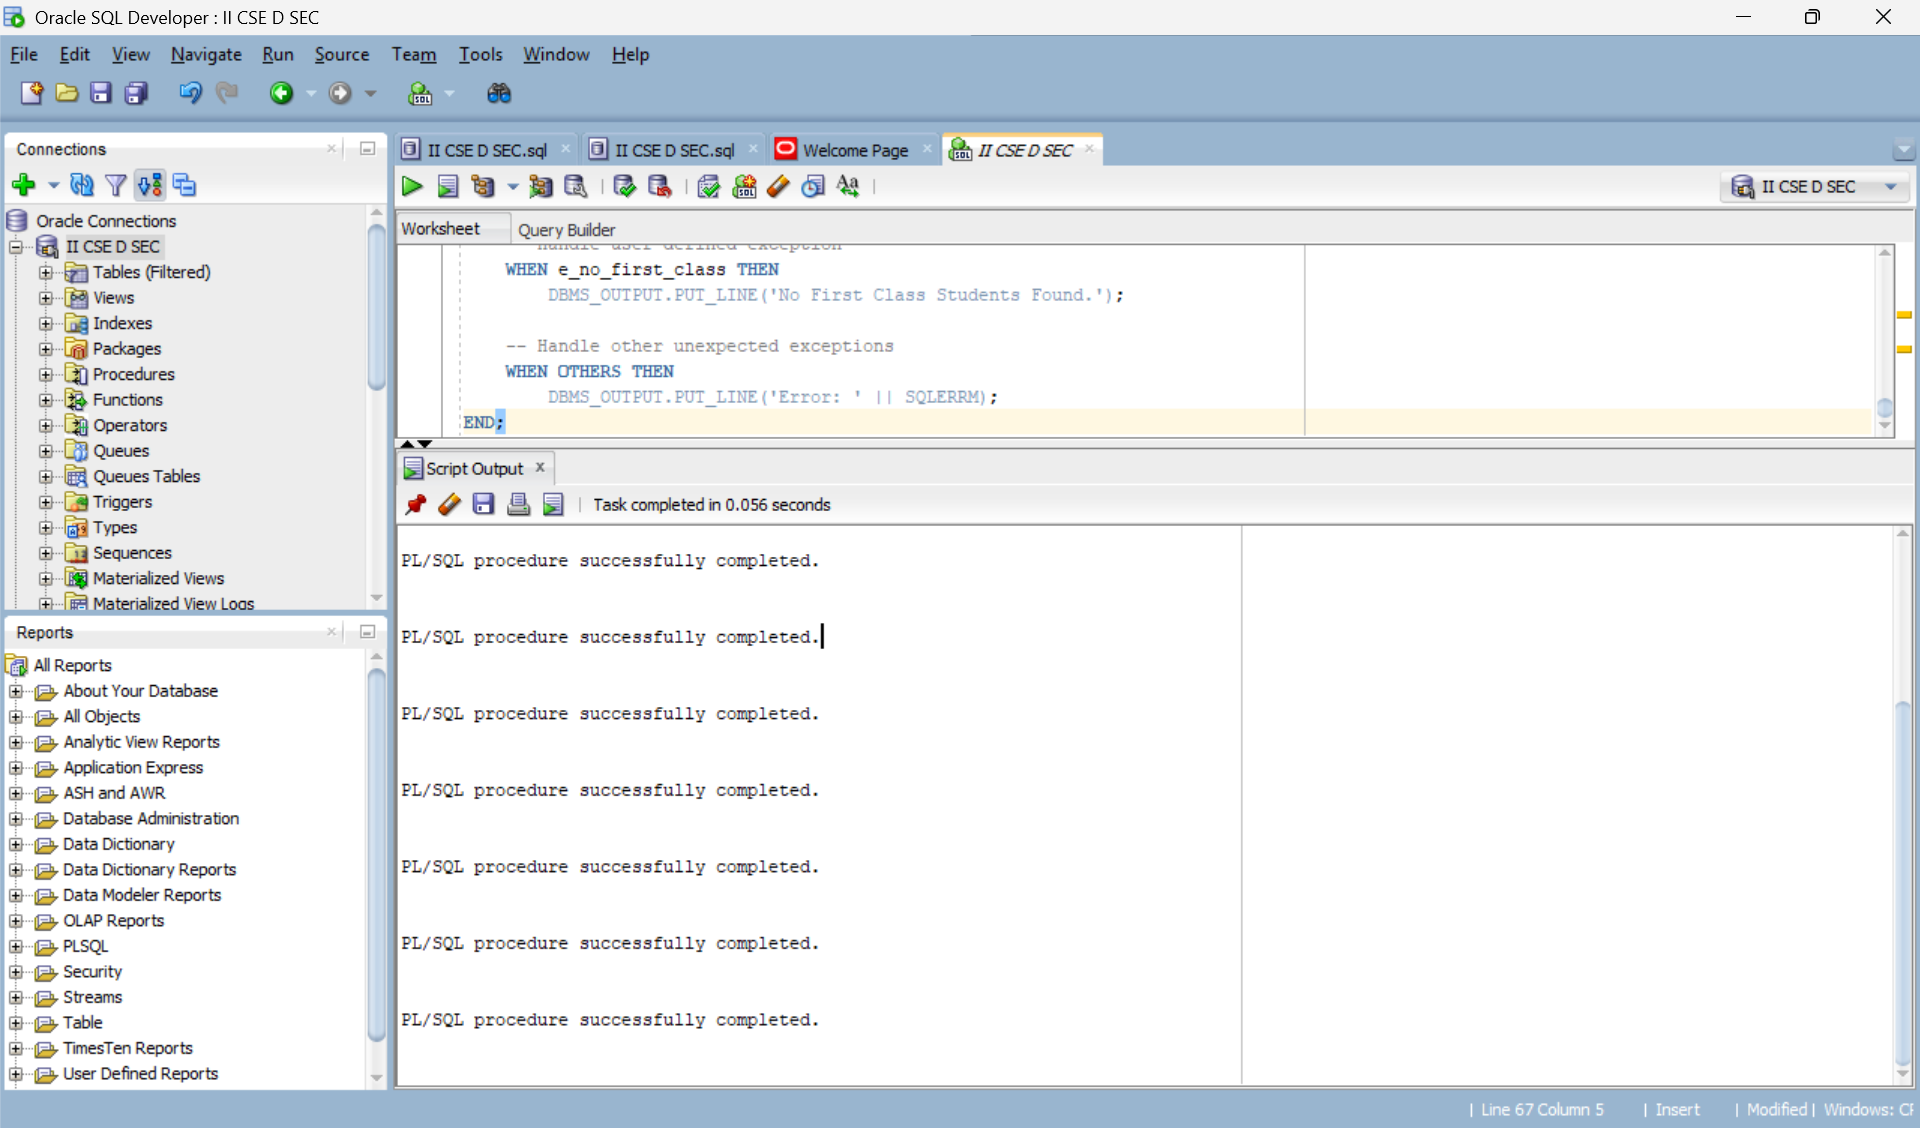
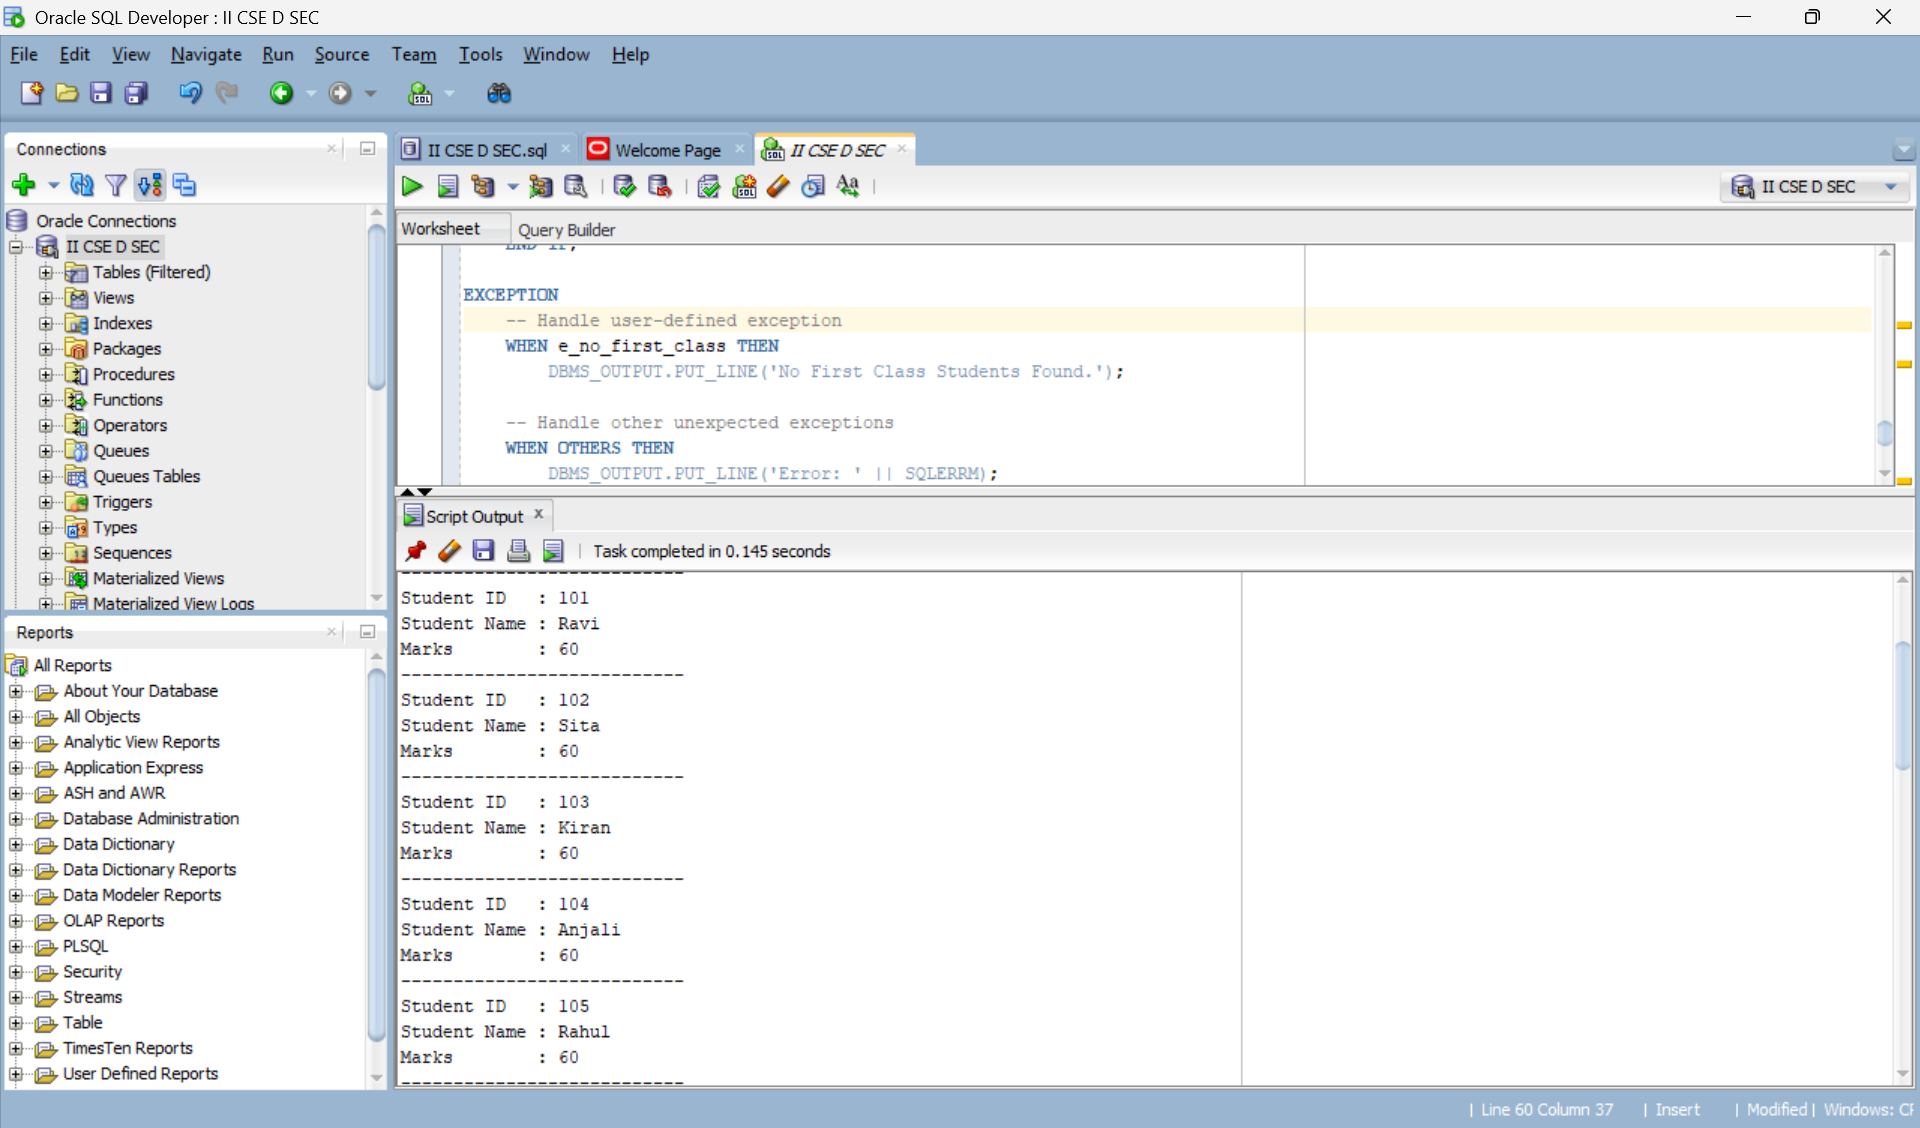
EXP-5a is completed

diff --git a/PRANATHI-5P0/EXP-5a/readme.md b/PRANATHI-5P0/EXP-5a/readme.md
@@ -83,6 +83,8 @@ END;
 
 ```
 ![output](op-4.png)
+![output](op-5.png)
+![output](op-6.png)
 
 ```
 UPDATE student 
@@ -90,5 +92,5 @@ set marks=60;
 SELECT * FROM student;
 
 ```
-![output](op-5.png)
-![output](op-6.png)
+![output](op-7.png)
+![output](op-8.png)
